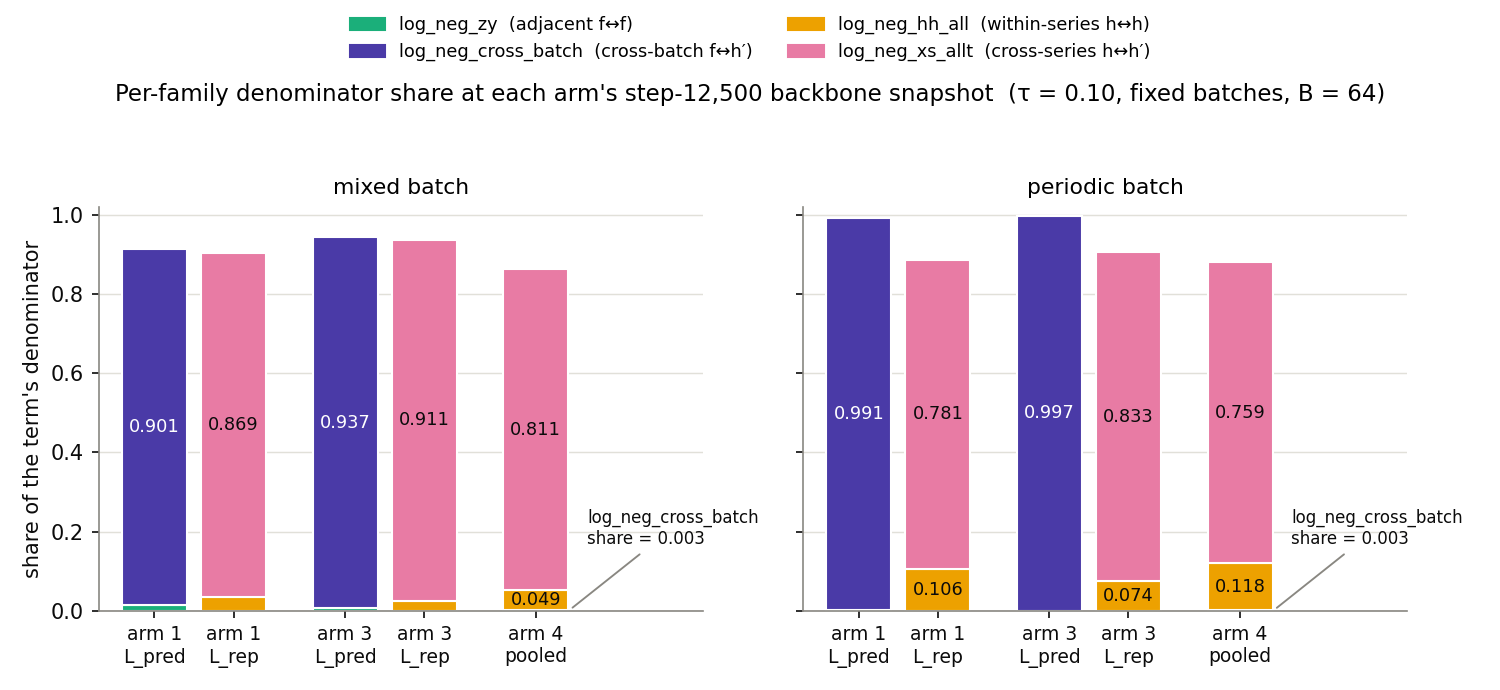
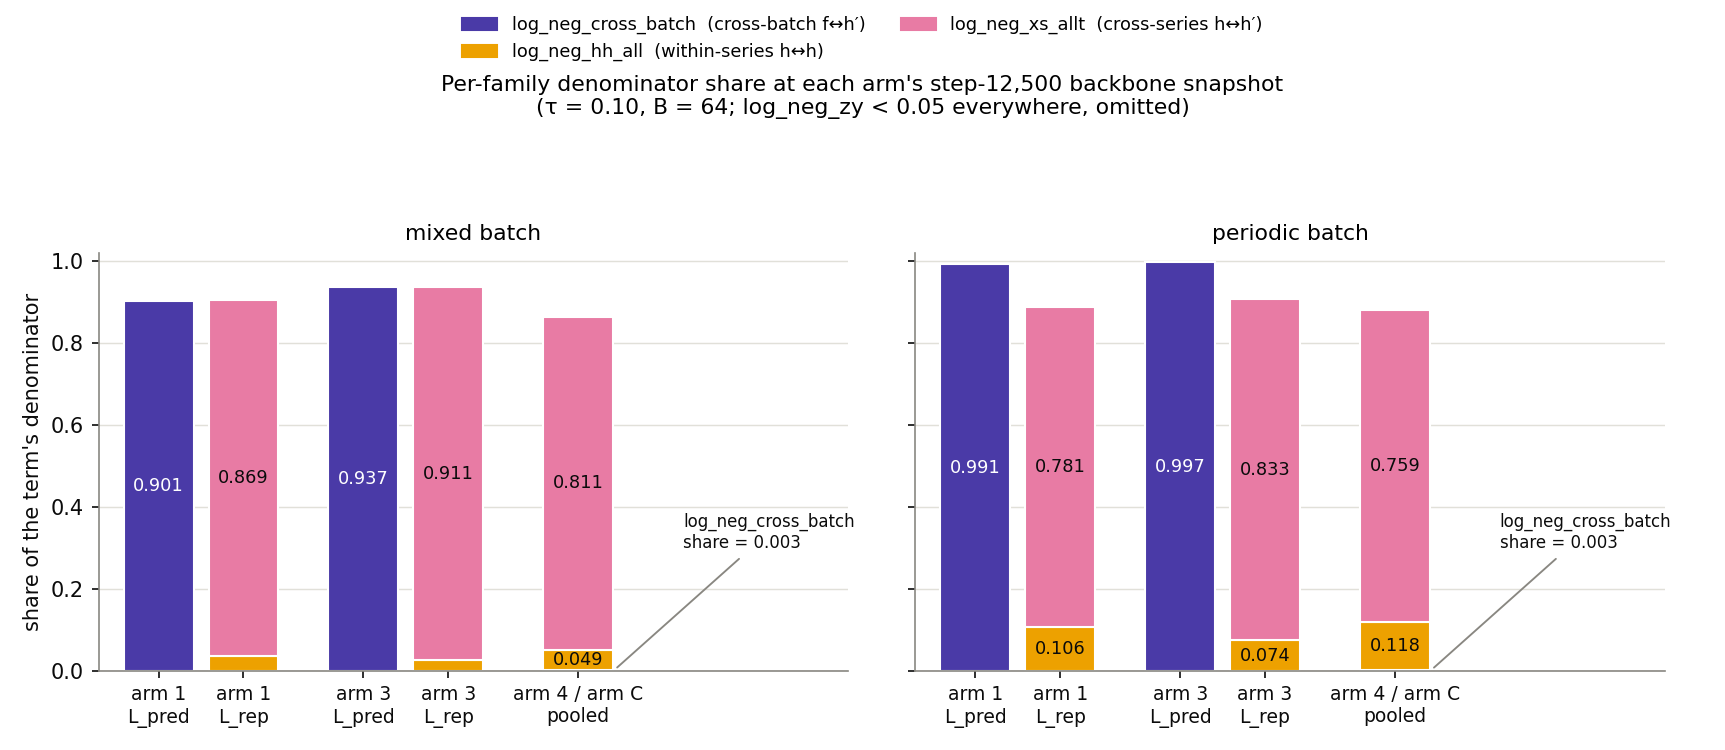
plot(374): clean stack — drop zy legend, name arm-C shape
Per user feedback on the gradient-share plot:
- log_neg_zy < 0.05 across every bar; dropped from the stack and
  noted in the subtitle instead of eating a green legend slot.
- Arm 4's "pooled" x-tick relabelled "arm 4 / arm C pooled" so a cold
  reader can see the pooled shape is arm C's shape byte-for-byte
  (with MoCo swap disabled at measurement time, they are the same).
- Widened figure + added a title line-break to prevent title-off-edge.

Changed region(s): [[0.0, 0.2435, 0.9813, 0.9739], [0.0613, 0.0, 0.92, 0.1522]]

diff --git a/reports/2026-07-10_split_pred_rep/plots/_make_plots.py b/reports/2026-07-10_split_pred_rep/plots/_make_plots.py
@@ -104,23 +104,22 @@ def headline() -> None:
 
 
 FINAL_CKPT = {"arm1": "_FINAL.pth", "arm3": "_FINAL.pth", "arm4": "_FINAL.pth"}
-STACK_ORDER = ["log_neg_zy", "log_neg_cross_batch", "log_neg_hh_all", "log_neg_xs_allt"]
+STACK_ORDER = ["log_neg_cross_batch", "log_neg_hh_all", "log_neg_xs_allt"]
 TENSOR_LABEL = {
-    "log_neg_zy": "log_neg_zy  (adjacent f↔f)",
     "log_neg_cross_batch": "log_neg_cross_batch  (cross-batch f↔h′)",
     "log_neg_hh_all": "log_neg_hh_all  (within-series h↔h)",
     "log_neg_xs_allt": "log_neg_xs_allt  (cross-series h↔h′)",
 }
 BAR_SLOTS = [("arm1", "pred", "arm 1\nL_pred", 0.0), ("arm1", "rep", "arm 1\nL_rep", 0.85),
              ("arm3", "pred", "arm 3\nL_pred", 2.05), ("arm3", "rep", "arm 3\nL_rep", 2.90),
-             ("arm4", "pooled", "arm 4\npooled", 4.10)]
+             ("arm4", "pooled", "arm 4 / arm C\npooled", 4.20)]
 
 
 def gradient_share_stack() -> None:
     df = pd.read_csv(EXP / "results" / "gradient_share_measurement.csv")
     df["share"] = pd.to_numeric(df.share, errors="coerce")  # "n/a" -> NaN
     df = df.dropna(subset=["share"])
-    fig, axes = plt.subplots(1, 2, figsize=(10, 4.6), sharey=True)
+    fig, axes = plt.subplots(1, 2, figsize=(11.5, 5.0), sharey=True)
     for ax, batch in zip(axes, ["mixed", "periodic"]):
         for arm, denom, ticklabel, xpos in BAR_SLOTS:
             rows = df[(df.arm_name == arm) & (df.batch_type == batch)
@@ -142,10 +141,10 @@ def gradient_share_stack() -> None:
                 if arm == "arm4" and tensor == "log_neg_cross_batch":
                     ax.annotate(f"log_neg_cross_batch\nshare = {share:.3f}",
                                 xy=(xpos + 0.36, bottom + share / 2),
-                                xytext=(xpos + 0.55, 0.17), fontsize=8, color=INK,
+                                xytext=(xpos + 1.05, 0.30), fontsize=8, color=INK,
                                 arrowprops=dict(arrowstyle="-", color=MUTED, lw=0.9))
                 bottom += share
-        ax.set_xlim(-0.6, 5.9)
+        ax.set_xlim(-0.6, 6.9)
         ax.set_xticks([s[3] for s in BAR_SLOTS], [s[2] for s in BAR_SLOTS], fontsize=9)
         ax.set_title(f"{batch} batch", fontsize=10.5)
         ax.set_ylim(0, 1.02)
@@ -158,9 +157,10 @@ def gradient_share_stack() -> None:
     fig.legend(handles, [TENSOR_LABEL[t] for t in STACK_ORDER],
                loc="upper center", ncol=2, fontsize=8.5, frameon=False,
                bbox_to_anchor=(0.5, 1.0))
-    fig.suptitle("Per-family denominator share at each arm's step-12,500 backbone snapshot  "
-                 "(τ = 0.10, fixed batches, B = 64)", y=0.88, fontsize=11)
-    fig.tight_layout(rect=(0, 0, 1, 0.84))
+    fig.suptitle("Per-family denominator share at each arm's step-12,500 backbone snapshot"
+                 "\n(τ = 0.10, B = 64; log_neg_zy < 0.05 everywhere, omitted)",
+                 y=0.90, fontsize=10.5)
+    fig.tight_layout(rect=(0, 0, 1, 0.82))
     fig.savefig(HERE / "gradient_share_stack.png")
     plt.close(fig)
 
